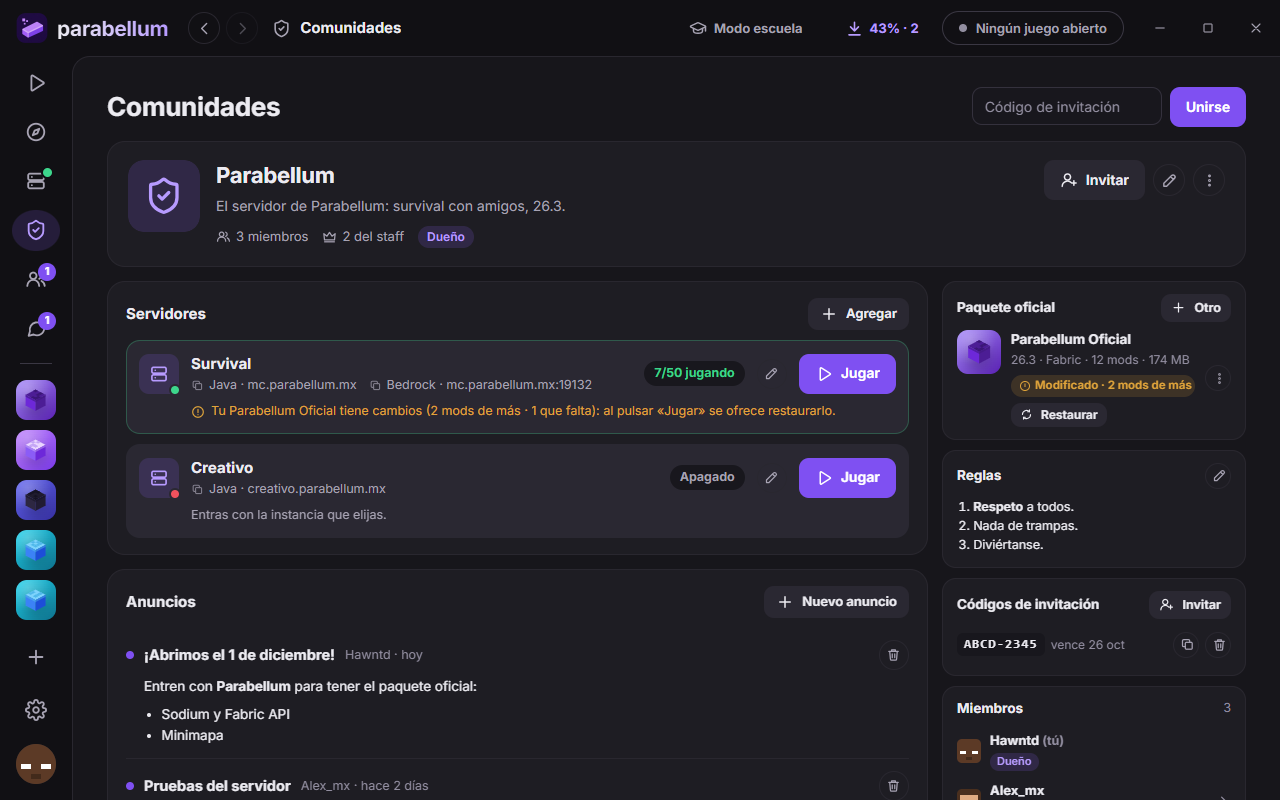
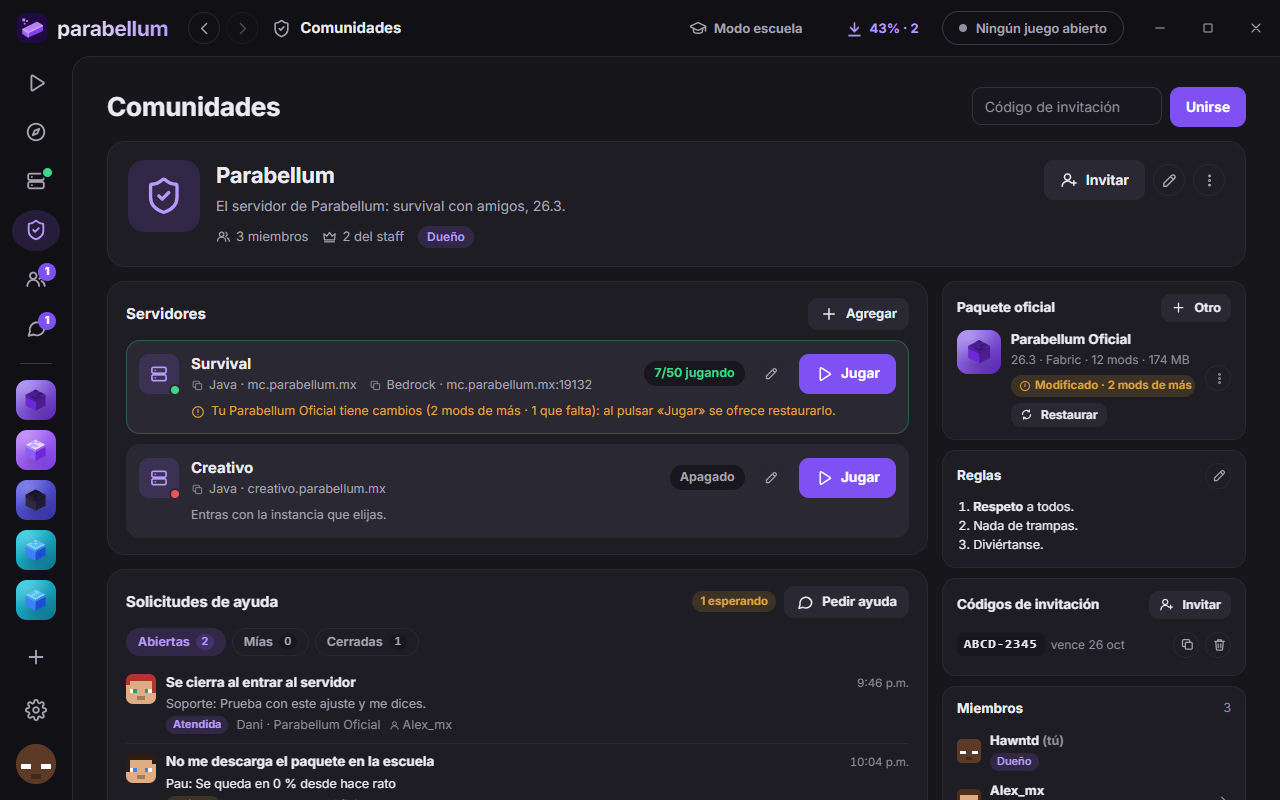
Anotada la 0.34.0 publicada en Drive (Juan, 6379499) y el README al día
- README: el botón y la descarga apuntan a la 0.34.0 (release v0.34.0, con el zip exacto
  de Drive), su fila en «Versiones», el soporte y las copias de seguridad en «Qué puedes
  hacer», y dos capturas nuevas (la comunidad con la cola de soporte y una solicitud con
  su tarjeta).
- docs/mac-cambios.md: la 0.34.0 en «Versiones publicadas en Drive» y el estado (Windows
  0.34.0, Mac 0.33.0 según el PR #17).
- ROADMAP y plan: las reglas del soporte y la 0.34.0 ya están publicadas.

Changed region(s): [[0.0938, 0.75, 0.375, 1.0], [0.5312, 0.7188, 0.6875, 0.7812], [0.6562, 0.9375, 0.6875, 0.9688]]

diff --git a/README.md b/README.md
@@ -6,7 +6,7 @@
 
 **El launcher de Minecraft para jugar con tus amigos.**<br>Mods, modpacks, servidores propios y chat en una sola ventana, sin cuenta premium.
 
-[![Descargar para Windows](https://img.shields.io/badge/Descargar_para_Windows-0.33.0-7f50f2?style=for-the-badge&logo=windows&logoColor=white)](https://github.com/juanrojasgarcialin/parabellum-rs/releases/download/v0.33.0/Parabellum-0.33.0.zip)
+[![Descargar para Windows](https://img.shields.io/badge/Descargar_para_Windows-0.34.0-7f50f2?style=for-the-badge&logo=windows&logoColor=white)](https://github.com/juanrojasgarcialin/parabellum-rs/releases/download/v0.34.0/Parabellum-0.34.0.zip)
 
 ![Windows 10 y 11](https://img.shields.io/badge/Windows-10_·_11-2b2b33?style=flat-square) ![Mac con chip Apple](https://img.shields.io/badge/Mac-chip_Apple-2b2b33?style=flat-square&logo=apple&logoColor=white) ![Minecraft hasta la 26.3](https://img.shields.io/badge/Minecraft-hasta_la_26.3-2b2b33?style=flat-square) ![Español e inglés](https://img.shields.io/badge/idioma-español_·_English-2b2b33?style=flat-square)
 
@@ -37,6 +37,10 @@
     <td width="50%" valign="top"><b>⬇ Descargas</b><br>Cola de descargas con avance, cancelar, reintentar y límite de velocidad. Si algo falla, al reintentar sigue donde quedó.</td>
     <td width="50%" valign="top"><b>🔄 Se actualiza solo</b><br>Al abrirlo busca la versión nueva y se actualiza. Si una actualización no arranca, vuelve sola a la anterior.</td>
   </tr>
+  <tr>
+    <td width="50%" valign="top"><b>🛟 Soporte de tu comunidad</b><br>¿Algo no funciona? <b>Pide ayuda</b> y el equipo de soporte ve tu problema con el diagnóstico de tu instancia. Te pueden mandar un ajuste que aplicas con un clic (y deshaces igual).</td>
+    <td width="50%" valign="top"><b>🗂 Copias de seguridad</b><br>Antes de actualizar o restaurar un modpack, Parabellum guarda lo que cambia. Si algo sale mal, lo recuperas desde los detalles de la instancia.</td>
+  </tr>
 </table>
 
 Funciona en **español e inglés**, con tema **oscuro y claro**, y se puede usar entero con el teclado.
@@ -53,21 +57,22 @@ Funciona en **español e inglés**, con tema **oscuro y claro**, y se puede usar
     <td><img src="docs/capturas/servidores.png" alt="La lista de servidores"><br><sub><b>Servidores</b>: los tuyos, los de tus amigos y los guardados.</sub></td>
   </tr>
   <tr>
-    <td><img src="docs/capturas/comunidades.png" alt="La página de una comunidad"><br><sub><b>Comunidades</b>: servidores, paquete oficial, anuncios y reglas.</sub></td>
+    <td><img src="docs/capturas/comunidades.png" alt="La página de una comunidad"><br><sub><b>Comunidades</b>: servidores, paquete oficial y las solicitudes de ayuda.</sub></td>
+    <td><img src="docs/capturas/soporte.png" alt="Una solicitud de ayuda con su diagnóstico y una tarjeta de ajuste"><br><sub><b>Soporte</b>: tu diagnóstico y el ajuste que te proponen.</sub></td>
+  </tr>
+  <tr>
     <td><img src="docs/capturas/mensajes.png" alt="Mensajes con un amigo"><br><sub><b>Mensajes</b>: chat con amigos y grupos.</sub></td>
-  </tr>
-  <tr>
     <td><img src="docs/capturas/doctor.png" alt="El doctor explicando por qué se cerró el juego"><br><sub><b>El doctor</b>: por qué se cerró el juego y cómo arreglarlo.</sub></td>
-    <td><img src="docs/capturas/descargas.png" alt="El panel de descargas"><br><sub><b>Descargas</b>: la cola, el avance y la velocidad.</sub></td>
   </tr>
   <tr>
-    <td colspan="2" align="center"><img src="docs/capturas/detalles-claro.png" alt="Detalles de una instancia en tema claro" width="60%"><br><sub><b>Tema claro</b>: los detalles de una instancia, con sus copias de seguridad.</sub></td>
+    <td><img src="docs/capturas/descargas.png" alt="El panel de descargas"><br><sub><b>Descargas</b>: la cola, el avance y la velocidad.</sub></td>
+    <td><img src="docs/capturas/detalles-claro.png" alt="Detalles de una instancia en tema claro"><br><sub><b>Tema claro</b>: los detalles de una instancia, con sus copias de seguridad.</sub></td>
   </tr>
 </table>
 
 ## Descargar e instalar
 
-1. Baja **[Parabellum-0.33.0.zip](https://github.com/juanrojasgarcialin/parabellum-rs/releases/download/v0.33.0/Parabellum-0.33.0.zip)** (10 MB).
+1. Baja **[Parabellum-0.34.0.zip](https://github.com/juanrojasgarcialin/parabellum-rs/releases/download/v0.34.0/Parabellum-0.34.0.zip)** (10 MB).
 2. Descomprímelo en una carpeta tuya, por ejemplo `Escritorio\Parabellum` o una USB. Parabellum no se instala: todo lo suyo (instancias, mundos y ajustes) se queda en esa carpeta.
 3. Abre **`Parabellum.exe`**. La primera vez Windows puede mostrar «Windows protegió tu PC»: pulsa **Más información** › **Ejecutar de todas formas**. Las actualizaciones ya no muestran ese aviso.
 4. Escribe tu nombre de jugador, crea una instancia y pulsa **Jugar**.
@@ -82,7 +87,8 @@ Parabellum **se actualiza solo**: al abrir una versión vieja, baja la más nuev
 
 | Versión | Fecha | Lo nuevo | Descarga |
 |---|---|---|---|
-| [**0.33.0**](https://github.com/juanrojasgarcialin/parabellum-rs/releases/tag/v0.33.0)<br><sub>la más nueva</sub> | 20&nbsp;oct&nbsp;2026 | El paquete oficial de una comunidad avisa si le cambiaste mods, te muestra qué cambió y lo deja como el oficial con **Restaurar**. Antes de actualizar o restaurar se guarda una **copia de seguridad** que recuperas en Detalles de la instancia. | [⬇&nbsp;Descargar](https://github.com/juanrojasgarcialin/parabellum-rs/releases/download/v0.33.0/Parabellum-0.33.0.zip) |
+| [**0.34.0**](https://github.com/juanrojasgarcialin/parabellum-rs/releases/tag/v0.34.0)<br><sub>la&nbsp;más&nbsp;nueva</sub> | 20&nbsp;oct&nbsp;2026 | **Soporte en las comunidades**: pide ayuda con el diagnóstico de tu instancia (sin tu carpeta de usuario, correos ni claves) y el equipo de soporte te contesta. Te pueden mandar **tarjetas de ajustes** que aplicas con un clic y deshaces igual. | [⬇&nbsp;Descargar](https://github.com/juanrojasgarcialin/parabellum-rs/releases/download/v0.34.0/Parabellum-0.34.0.zip) |
+| [**0.33.0**](https://github.com/juanrojasgarcialin/parabellum-rs/releases/tag/v0.33.0) | 20&nbsp;oct&nbsp;2026 | El paquete oficial de una comunidad avisa si le cambiaste mods, te muestra qué cambió y lo deja como el oficial con **Restaurar**. Antes de actualizar o restaurar se guarda una **copia de seguridad** que recuperas en Detalles de la instancia. | [⬇&nbsp;Descargar](https://github.com/juanrojasgarcialin/parabellum-rs/releases/download/v0.33.0/Parabellum-0.33.0.zip) |
 | [**0.32.0**](https://github.com/juanrojasgarcialin/parabellum-rs/releases/tag/v0.32.0) | 20&nbsp;oct&nbsp;2026 | Mods de Modrinth en redes que bloquean Modrinth, sin modo escuela. Interfaz pulida de punta a punta: campos más claros, gráficas del servidor, animaciones al cargar y al cambiar de tema. | [⬇&nbsp;Descargar](https://github.com/juanrojasgarcialin/parabellum-rs/releases/download/v0.32.0/Parabellum-0.32.0.zip) |
 | [**0.31.2**](https://github.com/juanrojasgarcialin/parabellum-rs/releases/tag/v0.31.2) | 18&nbsp;oct&nbsp;2026 | Si Drive no entrega un paquete a la primera, se reintenta (antes, a veces no aparecía). | [⬇&nbsp;Descargar](https://github.com/juanrojasgarcialin/parabellum-rs/releases/download/v0.31.2/Parabellum-0.31.2.zip) |
 | [**0.31.1**](https://github.com/juanrojasgarcialin/parabellum-rs/releases/tag/v0.31.1) | 18&nbsp;oct&nbsp;2026 | **Comunidades**: códigos de invitación, anuncios, reglas, servidores y el paquete oficial que se instala al pulsar Jugar. Canal de pruebas en Ajustes › Acerca de. | [⬇&nbsp;Descargar](https://github.com/juanrojasgarcialin/parabellum-rs/releases/download/v0.31.1/Parabellum-0.31.1.zip) |
@@ -122,7 +128,7 @@ Agréguense en **Amigos** (con su cuenta de Google). Después, uno crea un servi
 <details>
 <summary><b>El juego se cierra al abrir. ¿Qué hago?</b></summary>
 
-Parabellum abre **el doctor** solo: te dice qué pasó y te ofrece el arreglo. Si no se resuelve, usa **Reportar problema** (en el menú ⋮ de la instancia) y manda el resumen por chat a quien te ayuda.
+Parabellum abre **el doctor** solo: te dice qué pasó y te ofrece el arreglo. Si no se resuelve, en tu comunidad pulsa **Pedir ayuda**: el equipo de soporte ve tu problema con el diagnóstico de la instancia. Si no estás en una comunidad, usa **Reportar problema** (en el menú ⋮ de la instancia) y manda el resumen por chat a quien te ayuda.
 </details>
 
 <details>

diff --git a/docs/mac-cambios.md b/docs/mac-cambios.md
@@ -24,12 +24,10 @@ sesión, después de actualizar `main`.** La guía de Mac sigue siendo [mac.md](
 ## Estado
 
 - Última revisión de los PR de Mac en Windows: 2026-10-18, PR #1 a #15 (todos mezclados).
-- **Publicado en Drive:** Windows **0.33.0** desde el 2026-10-20 (Juan; el exe publicado es idéntico
-  al compilado de `main` en `52de0a3`). Las reglas de Firebase de Comunidades ya están publicadas.
-  **Mac sigue en 0.28.0**, cinco versiones atrás: puede publicar directo la 0.33.0 (lo de «Para
-  llegar a la 0.30.0», abajo, sigue valiendo).
-- **En `main`: 0.34.0**, sin publicar: E3 (soporte y tarjetas de ajustes; ver «Cambios de Windows»).
-  Antes de publicarla, Juan publica las reglas nuevas de Firebase.
+- **Publicado en Drive:** Windows **0.34.0** desde el 2026-10-20 (Juan; el exe publicado es idéntico
+  al compilado de `main` en `6379499`), con las reglas de Firebase del soporte ya publicadas.
+  **Mac 0.33.0** desde el 2026-10-20 (Diego; su entrada está en el PR #17). Le falta solo la 0.34.0
+  (E3), que no tiene nada propio de Mac.
 - **Descargas en GitHub:** cada versión de Windows publicada tiene su release (`v<versión>`) con el zip,
   y el README las enlaza en «Versiones». Cuando publiques una de Mac, súbela también como release
   (`mac-v<versión>`) y dime para enlazarla.
@@ -106,6 +104,16 @@ Lo que faltaba para que Mac estuviera a la par de Windows en la 0.28.0 (publicad
 Lo que ya tienen los compañeros: Windows en `_parabellum` y Mac en `_parabellum-mac`. La más nueva, arriba.
 Desde la 0.30.1 hay también un canal de pruebas: `_parabellum-pruebas` y `_parabellum-mac-pruebas`.
 
+- **0.34.0** · 2026-10-20 · E3. Publicada por Juan, compilada de `main` en `6379499`, con las reglas
+  de Firebase del soporte publicadas antes:
+  - **Pedir ayuda** al equipo de soporte de la comunidad, desde la comunidad o desde «Reportar
+    problema», con el diagnóstico de la instancia (se ve antes de mandarlo, sin la carpeta del usuario,
+    correos ni claves).
+  - **El equipo de soporte** ve la cola, toma las solicitudes, contesta y las cierra. A quien pidió
+    ayuda le sale un punto y un aviso cuando le responden.
+  - **Tarjetas de ajustes**: el equipo propone uno de los 7 ajustes con su valor; el jugador ve el de su
+    PC y el recomendado, y lo aplica con un clic (con «Deshacer»).
+  - «Reportar problema» ya sale sin la carpeta del usuario, correos ni claves.
 - **0.33.0** · 2026-10-20 · E1. Publicada por Juan, compilada de `main` en `52de0a3`:
   - **El paquete oficial avisa si lo cambiaste**: en Comunidades sale «Modificado» con qué mods sobran o
     faltan, y «Restaurar» lo deja como el oficial. Antes de jugar en el servidor con el paquete cambiado,

diff --git a/docs/plan-diciembre.md b/docs/plan-diciembre.md
@@ -393,7 +393,7 @@ El orden sigue las dependencias. Lo que se dice que «cabe» es lo razonable, no
     conversación y las tarjetas de los 7 ajustes (aplicar, repetir sin efecto, deshacer y acuse);
   - `reporte::redact` quita la carpeta del usuario, correos, tokens y claves;
   - reglas de `supportTickets`, `supportMessages` y `supportByUser`, con sus pruebas en el emulador.
-  - Juan tiene que publicar las reglas antes que la 0.34.0. Lo siguiente es **E4** (mundos en Drive).
+  - Juan publicó las reglas y la 0.34.0 el 2026-10-20. Lo siguiente es **E4** (mundos en Drive).
 
 **Antes de diciembre**: E0, E1, E2 y E3 caben si las decisiones 1–3 llegan pronto. E4 es posible en el
 canal de pruebas. E5 y E6 quedan para después. Si algo se atrasa, se recorta E3 a soporte sin tarjetas

diff --git a/ROADMAP.md b/ROADMAP.md
@@ -157,7 +157,7 @@ centrado y animado. Se revisa absolutamente cada vista, formulario y ventana.
     - el equipo ve el acuse: «la aplicó en su PC».
   - Las reglas de Firebase validan cada tarjeta (de la lista, con un valor de su tipo y solo del equipo)
     y no dejan editar ni borrar mensajes. Probadas en el emulador (`docs/probar-reglas.py`).
-- [ ] *Prueba:* Juan: publicar las reglas de Firebase y pedir ayuda desde otra cuenta en su comunidad
+- [ ] *Prueba:* Juan: pedir ayuda desde otra cuenta en su comunidad y mandarle una tarjeta (la 0.34.0 y sus reglas ya están publicadas)
 - [ ] **E4, mundos en Drive** (opcional antes de diciembre): copias, revisiones y restaurar con su instancia
 - [ ] **Pruebas reales pendientes**:
   - en la escuela: Modrinth sin modo escuela;
